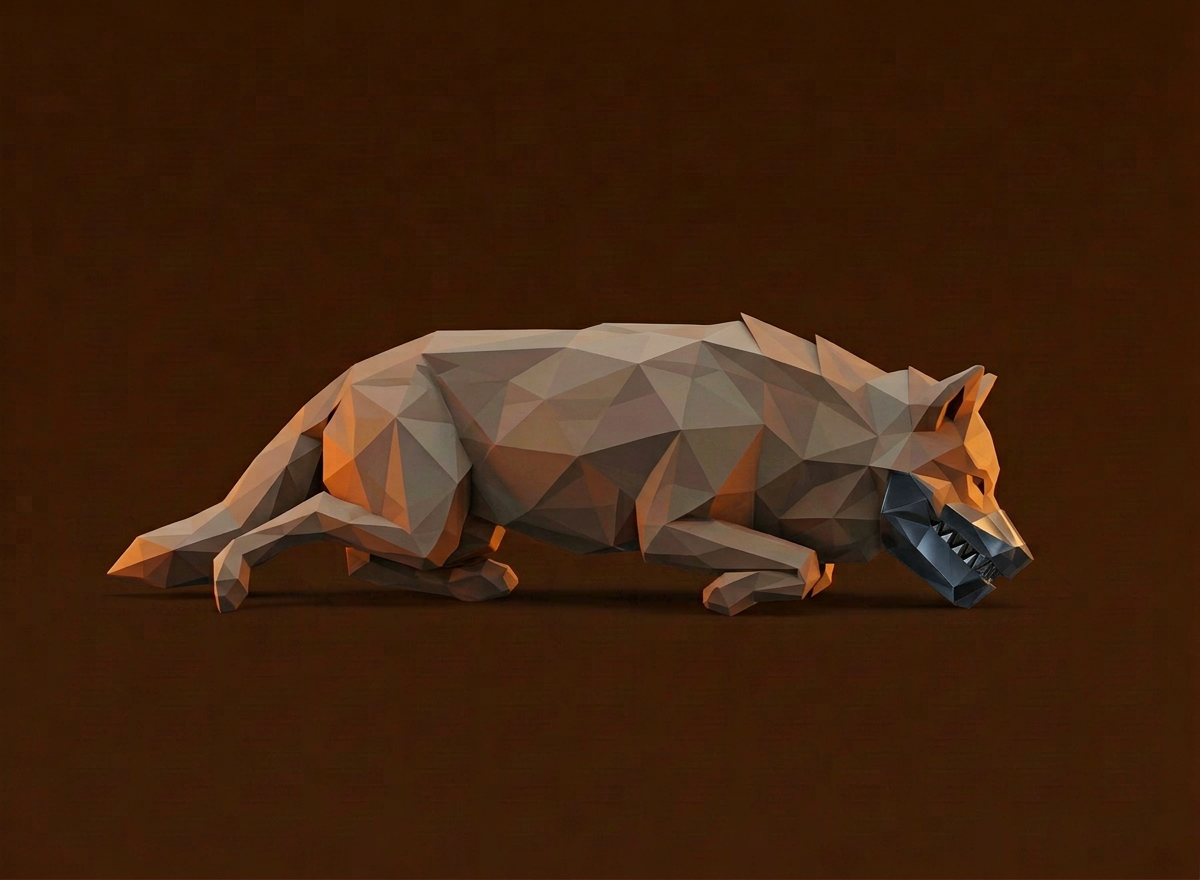
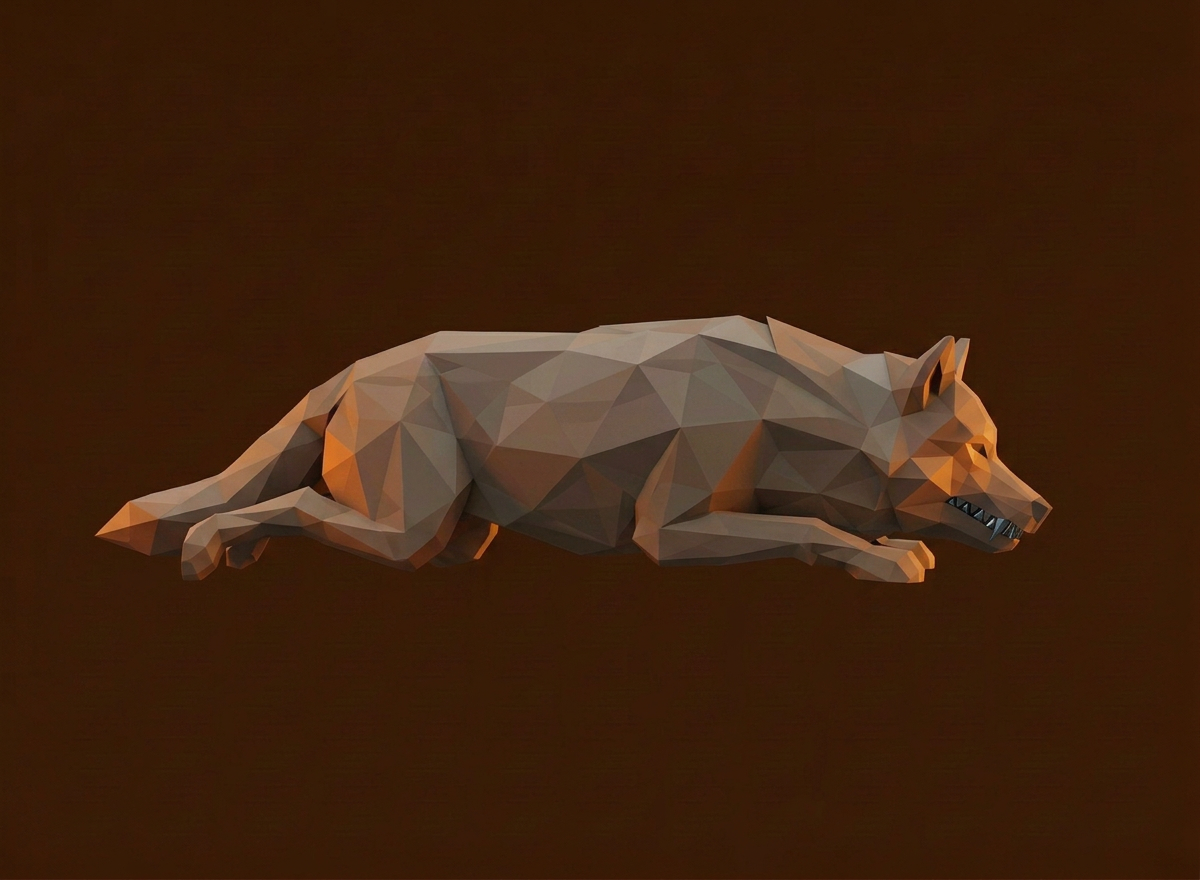
Gêmeos (fonte): morte da Mandíbula sem sombra (death_3 v6); caminhada da Mandíbula, 8 keys provisórios; manifesto com inspeção e pendências

Changed region(s): [[0.0617, 0.3375, 0.8942, 0.7057], [0.4008, 0.3682, 0.4933, 0.3989]]

diff --git a/art-source/gemeos-lowpoly/README.md b/art-source/gemeos-lowpoly/README.md
@@ -2,15 +2,22 @@
 
 Originais gerados por IA, em 1200×880, comprimidos sem perda. **Não são os sprites do jogo.**
 Os sprites usados pelo jogo continuam em `assets/sprites/raid/` (pixel art 56×36) até a etapa de corte e integração.
+Esta pasta está em ~61 MB: é o custo de guardar os originais no Git, decidido com o usuário.
 
-Corpo: lobo normal em laranja-acastanhado, com os mesmos tons do lobo. Mandíbula e Patas são o lobo com a peça de aço.
+Corpo: lobo normal em laranja-acastanhado. Mandíbula e Patas são o lobo com a peça de aço.
+
+## Inspeção (última rodada)
+- Todos os quadros estão sem sombra de chão, exceto os que foram corrigidos (ver `death_3` abaixo).
+- Quase todos têm 1 pixel isolado nas bordas direita/inferior. É ruído do gerador: o corte com maior componente conectado descarta esse pixel.
+- `patas_atk_5`: 1 pixel de borda, mesmo caso.
+- Conformidade medida em miniatura e em ampliação pontual. Não é uma conferência quadro a quadro em ampliação.
 
 ## Patas (duas patas dianteiras de aço com duas garras cada)
 | Conjunto | Código (`js/creatures.js`) | Arquivos aqui | Estado |
 |---|---|---|---|
-| Base | — | `patas_base_laranja.png` | Aceita |
-| Repouso | `idle: 4` | `patas_idle_0..4` (5) | Pendente: escolher 4 para bater com o código |
-| Caminhada | `walk: 16` | nenhum | Pausada (poses com a pata distante fora do modelo) |
+| Base | — | `patas_base_laranja.png` | Aceita. Duas garras confirmadas em ampliação |
+| Repouso | `idle: 4` | `patas_idle_0..4` (5) | Pendente: escolher 4. Sugestão: base, `idle_1`, `idle_2`, `idle_3`. `idle_4` fica de fora |
+| Caminhada | `walk: 16` | nenhum | Pausada: pata distante fora do modelo nas tentativas anteriores |
 | Dano | `hurt: 3` | `patas_hurt_0..2` | Aceito |
 | Ataque | `attack: 9` | `patas_atk_0..8` | Aceito; `atk_5` com pata mais esticada, conferir no jogo |
 | Morte | `death: 7` | `patas_death_0..6` | Aceito; `death_3` e `death_4` refeitos |
@@ -22,23 +29,22 @@ A v1 tinha mandíbula pequena e não aparecia com a boca fechada. A v2 foi refei
 |---|---|---|---|
 | Base | — | `mandibula_base_v2.png` (= `mandibula_v2_idle_0`) | Aceita |
 | Repouso | `idle: 5` | `mandibula_v2_idle_0..4` (5 de 5) | Aceito |
-| Caminhada | `walk: 16` | nenhum | Pausada |
+| Caminhada | `walk: 16` | `mandibula_v2_walk_key_0..7` (8 de 16) | **Provisória.** `key_3` e `key_5` com pernas a conferir. Faltam 8 intermediários |
 | Dano | `hurt: 3` | `mandibula_v2_hurt_0..2` (3 de 3) | Aceito |
-| Ataque | `attack: 9` | `mandibula_v2_atk_0..8` (9 de 9) | Aceito. `atk_3`, `atk_4` e `atk_5` foram refeitos (sem pedra, uma cabeça só, mandíbula visível) |
-| Morte | `death: 7` | `mandibula_v2_death_0..6` (7 de 7) | Aceito |
-
-Os quadros foram conferidos em miniatura e ampliação. Não foram testados no jogo.
+| Ataque | `attack: 9` | `mandibula_v2_atk_0..8` (9 de 9) | Aceito |
+| Morte | `death: 7` | `mandibula_v2_death_0..6` (7 de 7) | Aceito. `death_3` refeito sem sombra |
 
 ## Descartados (não estão aqui)
 - Versões cinzas das Patas (`patas_base_cinza`, `patas_key_*`): o usuário pediu o corpo laranja.
 - Caminhada de 8 quadros-chave das Patas (`patas_k*`): pata distante fora do chão.
 - Mandíbula v1 (base e repouso pequenos): substituída pela v2.
 - Versão v3 das Patas e os primeiros quadros de morte e ataque: perdidos no reinício do ambiente.
-- Quadros reprovados da v2: `idle_2` antigo (cabeça alta), `atk_3` antigo (bloco de pedra na boca), `atk_4` antigo (duas cabeças), `atk_5` antigo (corpo longo e fino), e as versões intermediárias de morte e ataque que não passaram.
+- Quadros reprovados da v2: `idle_2` antigo (cabeça alta), `atk_3` antigo (bloco de pedra na boca), `atk_4` antigo (duas cabeças), `atk_5` antigo (corpo longo e fino), `death_3` v5 (sombra de chão).
 
 ## Pendências para integrar
-1. Patas: escolher 4 quadros de repouso (os 5 atuais estão aqui).
-2. Caminhada das duas (16 cada), pausada.
-3. Corte com `cutlib` para 56×36, pés na linha 36, e medições.
-4. Atualizar `js/creatures.js` apenas quando as contagens baterem.
-5. Build, testes e conferência no navegador.
+1. Patas: confirmar os 4 quadros de repouso.
+2. Mandíbula: conferir `walk_key_3` e `walk_key_5`; gerar 8 intermediários da caminhada.
+3. Patas: caminhada (8 keys e 8 intermediários), depois de aprovar uma base de caminhada.
+4. Corte com `cutlib` para 56×36, pés na linha 36, e medições.
+5. Atualizar `js/creatures.js` apenas quando as contagens baterem.
+6. Build, testes e conferência no navegador.
